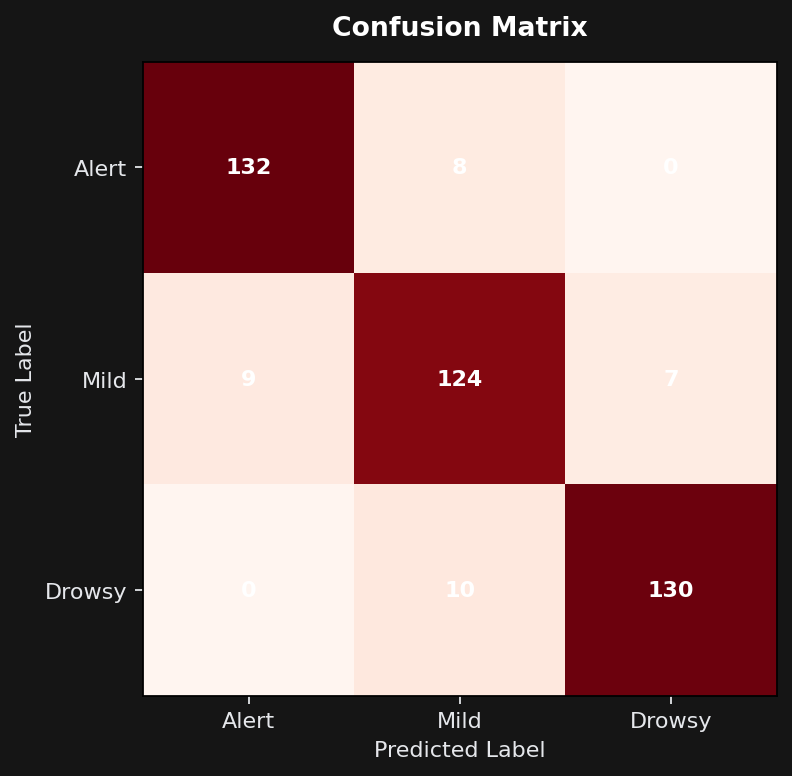
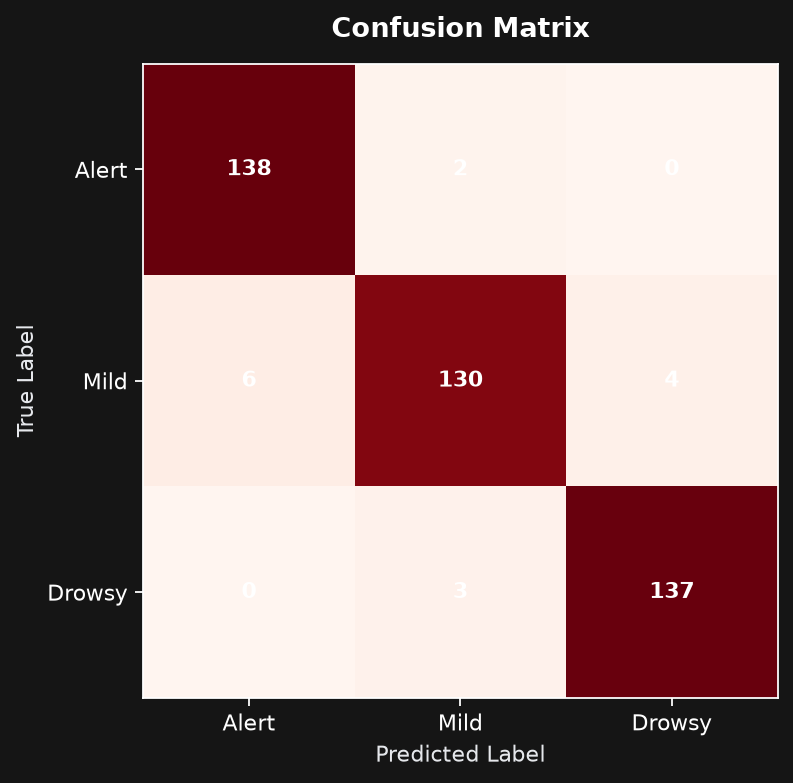
include feature extractor, individual graphs, and dual-model comparison matrices

diff --git a/feature_extractor.py b/feature_extractor.py
@@ -1,3 +1,5 @@
+import os
+import urllib.request
 import cv2
 import numpy as np
 import mediapipe as mp
@@ -10,17 +12,13 @@ try:
         max_num_faces=1,
         refine_landmarks=True,
         min_detection_confidence=0.5,
-        min_tracking_confidence=0.5
+        min_tracking_confidence=0.5,
     )
     USE_TASKS_API = False
 except AttributeError:
     # Modern Tasks API (MediaPipe 0.10.14+ / Python 3.13)
     from mediapipe.tasks import python
     from mediapipe.tasks.python import vision
-    
-    # Download landmark model asset automatically if not present locally
-    import urllib.request
-    import os
 
     MODEL_PATH = "face_landmarker.task"
     if not os.path.exists(MODEL_PATH):
@@ -31,7 +29,7 @@ except AttributeError:
     options = vision.FaceLandmarkerOptions(
         base_options=base_options,
         running_mode=vision.RunningMode.IMAGE,
-        num_faces=1
+        num_faces=1,
     )
     landmarker = vision.FaceLandmarker.create_from_options(options)
     USE_TASKS_API = True
@@ -41,45 +39,41 @@ LEFT_EYE_INDICES = [362, 385, 387, 263, 373, 380]
 RIGHT_EYE_INDICES = [33, 160, 158, 133, 153, 144]
 MOUTH_INDICES = [61, 291, 0, 17, 84, 314]
 
+
 def euclidean_distance(point1, point2):
-    """Calculates 2D distance between two landmark coordinate points."""
+    """Calculates 2D Euclidean distance between two landmark coordinate points."""
     return np.linalg.norm(point1 - point2)
 
+
 def calculate_ear(eye_landmarks):
-    """
-    Calculates Eye Aspect Ratio (EAR).
-    EAR drops when eyes are closed or drowsy.
-    """
+    """Calculates Eye Aspect Ratio (EAR). Drops when eyes close."""
     v1 = euclidean_distance(eye_landmarks[1], eye_landmarks[5])
     v2 = euclidean_distance(eye_landmarks[2], eye_landmarks[4])
     h = euclidean_distance(eye_landmarks[0], eye_landmarks[3])
     return (v1 + v2) / (2.0 * h)
 
+
 def calculate_mar(mouth_landmarks):
-    """
-    Calculates Mouth Aspect Ratio (MAR).
-    MAR increases significantly when yawning.
-    """
+    """Calculates Mouth Aspect Ratio (MAR). Increases during yawning."""
     v = euclidean_distance(mouth_landmarks[2], mouth_landmarks[3])
     h = euclidean_distance(mouth_landmarks[0], mouth_landmarks[1])
     return v / h
 
+
 def extract_features(frame):
-    """
-    Processes a video frame and returns extracted facial features:
+    """Processes a video frame and returns extracted facial features:
+
     (processed_frame, average_ear, mar, face_detected_bool)
     """
     h, w, _ = frame.shape
     rgb_frame = cv2.cvtColor(frame, cv2.COLOR_BGR2RGB)
 
     if not USE_TASKS_API:
-        # Process frame with legacy API
         results = face_mesh.process(rgb_frame)
         if not results.multi_face_landmarks:
             return frame, 0.0, 0.0, False
         face_landmarks = results.multi_face_landmarks[0].landmark
     else:
-        # Process frame with new Tasks API
         mp_image = mp.Image(image_format=mp.ImageFormat.SRGB, data=rgb_frame)
         detection_result = landmarker.detect(mp_image)
         if not detection_result.face_landmarks:
@@ -87,7 +81,10 @@ def extract_features(frame):
         face_landmarks = detection_result.face_landmarks[0]
 
     def get_coords(indices):
-        return np.array([(int(face_landmarks[idx].x * w), int(face_landmarks[idx].y * h)) for idx in indices])
+        return np.array([
+            (int(face_landmarks[idx].x * w), int(face_landmarks[idx].y * h))
+            for idx in indices
+        ])
 
     left_eye = get_coords(LEFT_EYE_INDICES)
     right_eye = get_coords(RIGHT_EYE_INDICES)
@@ -100,8 +97,8 @@ def extract_features(frame):
 
     return frame, avg_ear, mar, True
 
+
 if __name__ == "__main__":
-    # Test feature extraction using webcam
     cap = cv2.VideoCapture(0)
     print("Starting webcam test... Press 'q' on your keyboard to exit.")
 
@@ -113,13 +110,37 @@ if __name__ == "__main__":
         frame, ear, mar, detected = extract_features(frame)
 
         if detected:
-            cv2.putText(frame, f"EAR: {ear:.2f}", (30, 40), cv2.FONT_HERSHEY_SIMPLEX, 0.7, (0, 255, 0), 2)
-            cv2.putText(frame, f"MAR: {mar:.2f}", (30, 80), cv2.FONT_HERSHEY_SIMPLEX, 0.7, (255, 0, 0), 2)
+            cv2.putText(
+                frame,
+                f"EAR: {ear:.2f}",
+                (30, 40),
+                cv2.FONT_HERSHEY_SIMPLEX,
+                0.7,
+                (0, 255, 0),
+                2,
+            )
+            cv2.putText(
+                frame,
+                f"MAR: {mar:.2f}",
+                (30, 80),
+                cv2.FONT_HERSHEY_SIMPLEX,
+                0.7,
+                (255, 0, 0),
+                2,
+            )
         else:
-            cv2.putText(frame, "No Face Detected", (30, 40), cv2.FONT_HERSHEY_SIMPLEX, 0.7, (0, 0, 255), 2)
+            cv2.putText(
+                frame,
+                "No Face Detected",
+                (30, 40),
+                cv2.FONT_HERSHEY_SIMPLEX,
+                0.7,
+                (0, 0, 255),
+                2,
+            )
 
         cv2.imshow("Feature Extractor Test", frame)
-        if cv2.waitKey(1) & 0xFF == ord('q'):
+        if cv2.waitKey(1) & 0xFF == ord("q"):
             break
 
     cap.release()
